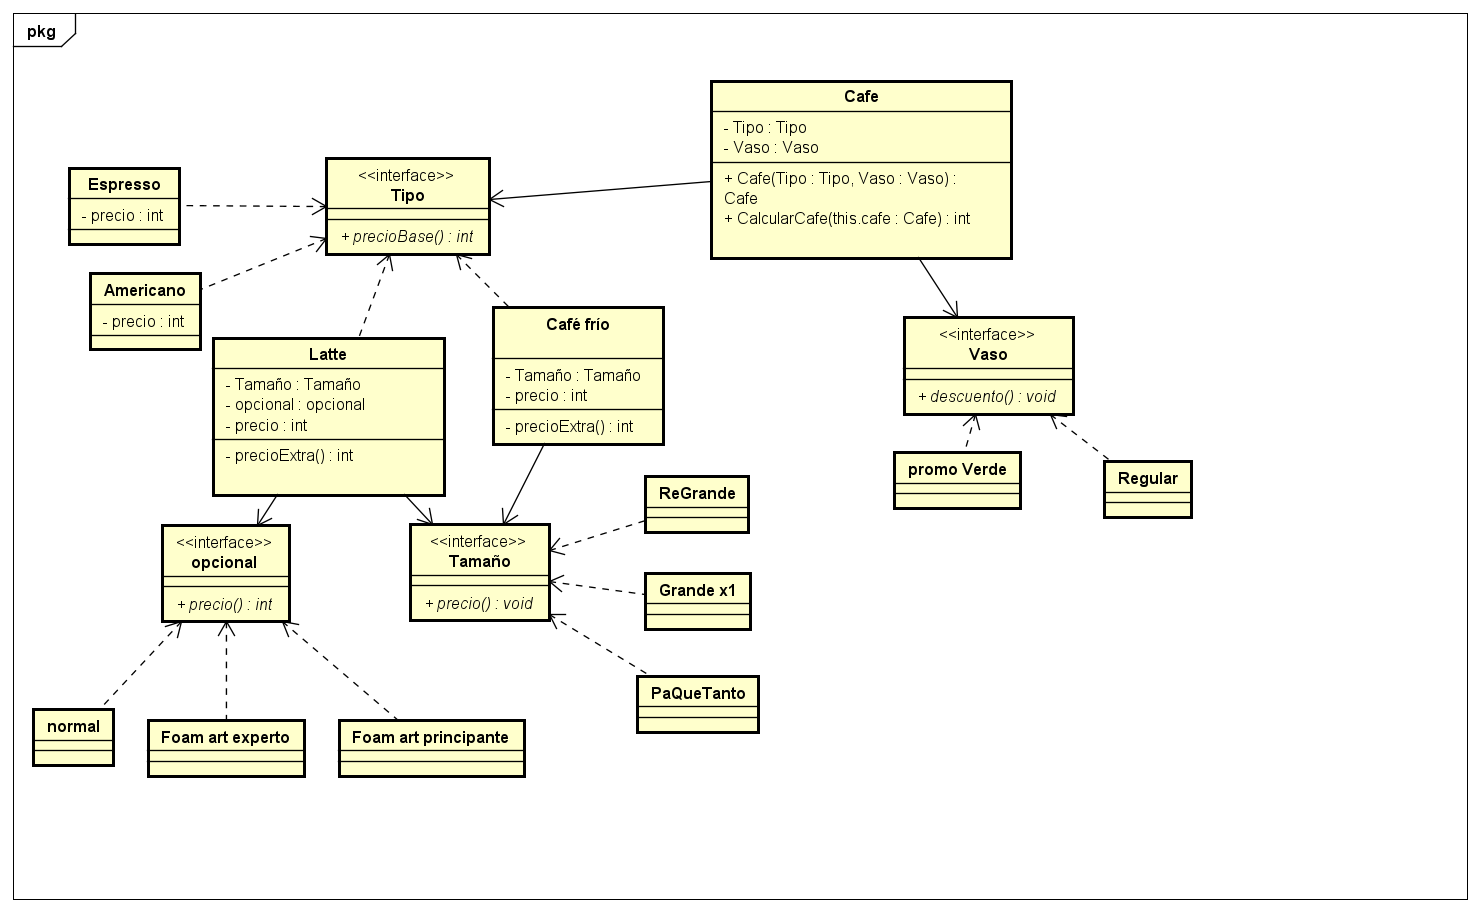
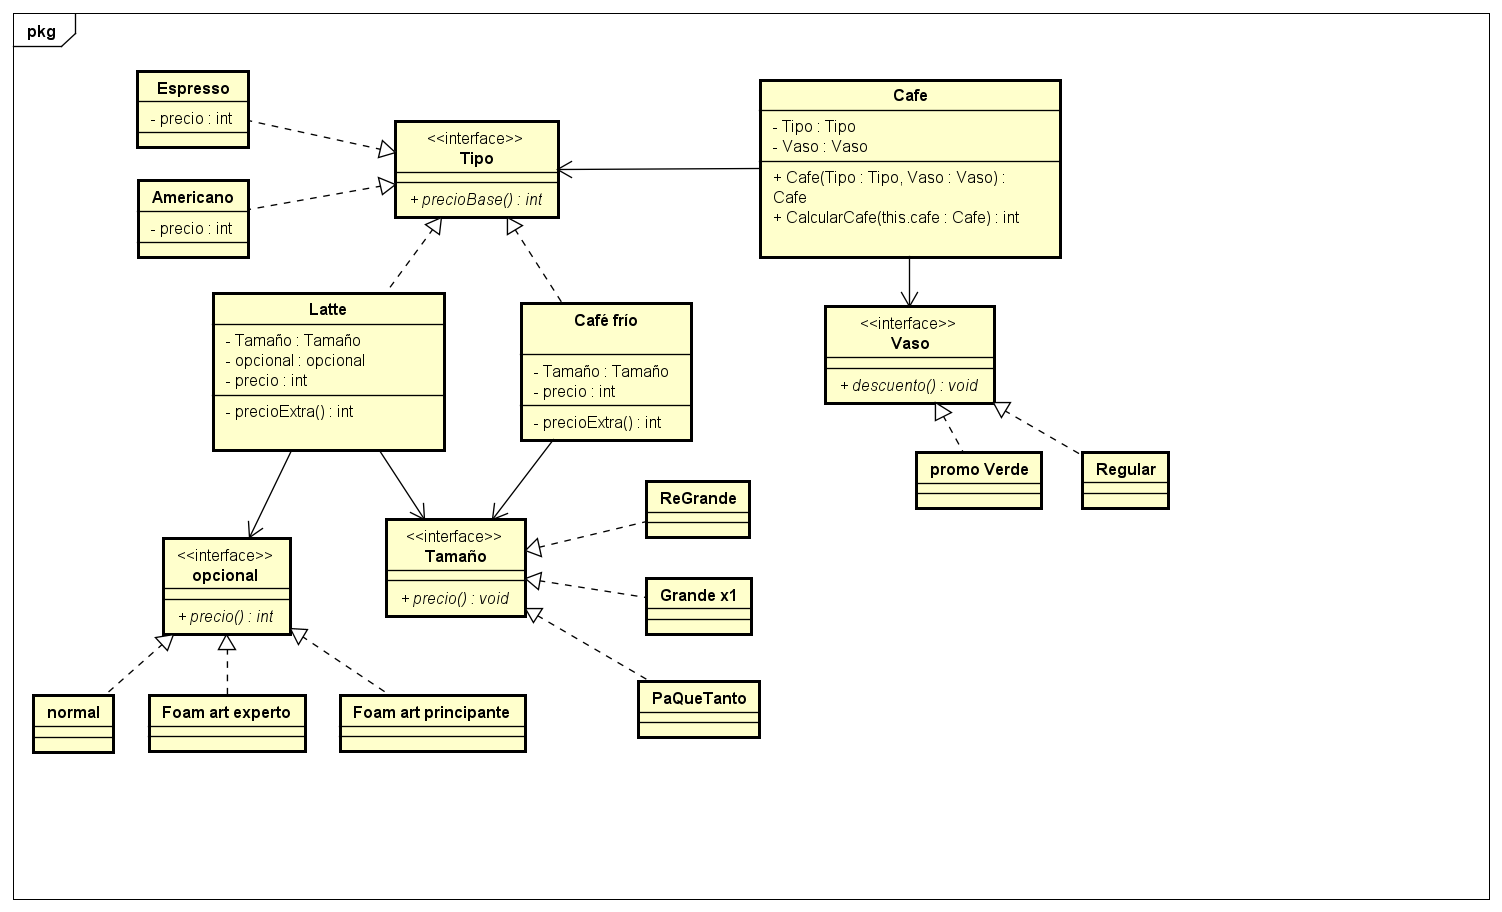
se arreglaron las flechas de interfaz de final de algocafe

diff --git a/FinalAlgoMotores2020-09-17/README.md b/FinalAlgoMotores2020-09-17/README.md
@@ -1,0 +1,32 @@
+Consigna
+
+## IMPORTANTE
+
+	1. Entregar código desarrollado por el propio/a alumno/a.
+	2. Entregar diagramas UML o diagramas con errores GROSEROS de notación.
+	3. Detallar los principios y problemas de diseño que presenta el código entregado (tanto el de cátedra como el del alumno/a)
+
+## Consignas
+
+### Consigna 1
+El modelo de dominio pertenece a vehículos y sus capacidades de cargas (`Auto` y `Moto`). Lea y ejecute `VehiculosTest`. Luego analice el modelo otorgado y conteste:
+
+    a. ¿Qué potenciales problemas de diseño encuentra en el código? Enumérelos explicando PARA CADA UNO de ellos
+	 porqué considera que representan un problema de diseño.
+    
+    b. ¿Se viola algún(os) principio(s) de diseño? ¿Cual(es)? 
+ 
+### Consigna 2
+Basándonos en los ítems que UD. detalló en el punto (1) realice una mejora de diseño total del proyecto manteniendo la funcionalidad, agregando los siguientes requerimientos:
+
+1. Un `Auto` puede ser equipado con un `PortaBici` y luego de esto puede cargar una bicicleta.
+2. Una `Moto` **no** debe poder ser equipada con un `PortaBici`.
+3. Una `Moto` **no** puede cargar una bici.
+
+#### Se pide
+
+    a. Realice una diagrama de clases de su nuevo diseño que incluya las clases agregadas para cumplir con los requerimientos.
+    
+    b. Realice en código dicha mejora de diseño incorporando los nuevos requerimientos.
+
+    c. Con la mejora hecha en (b) realice un diagrama de secuencia dónde se pueda ver la carga y descargar de una bicicleta en un auto con porta bici. 
